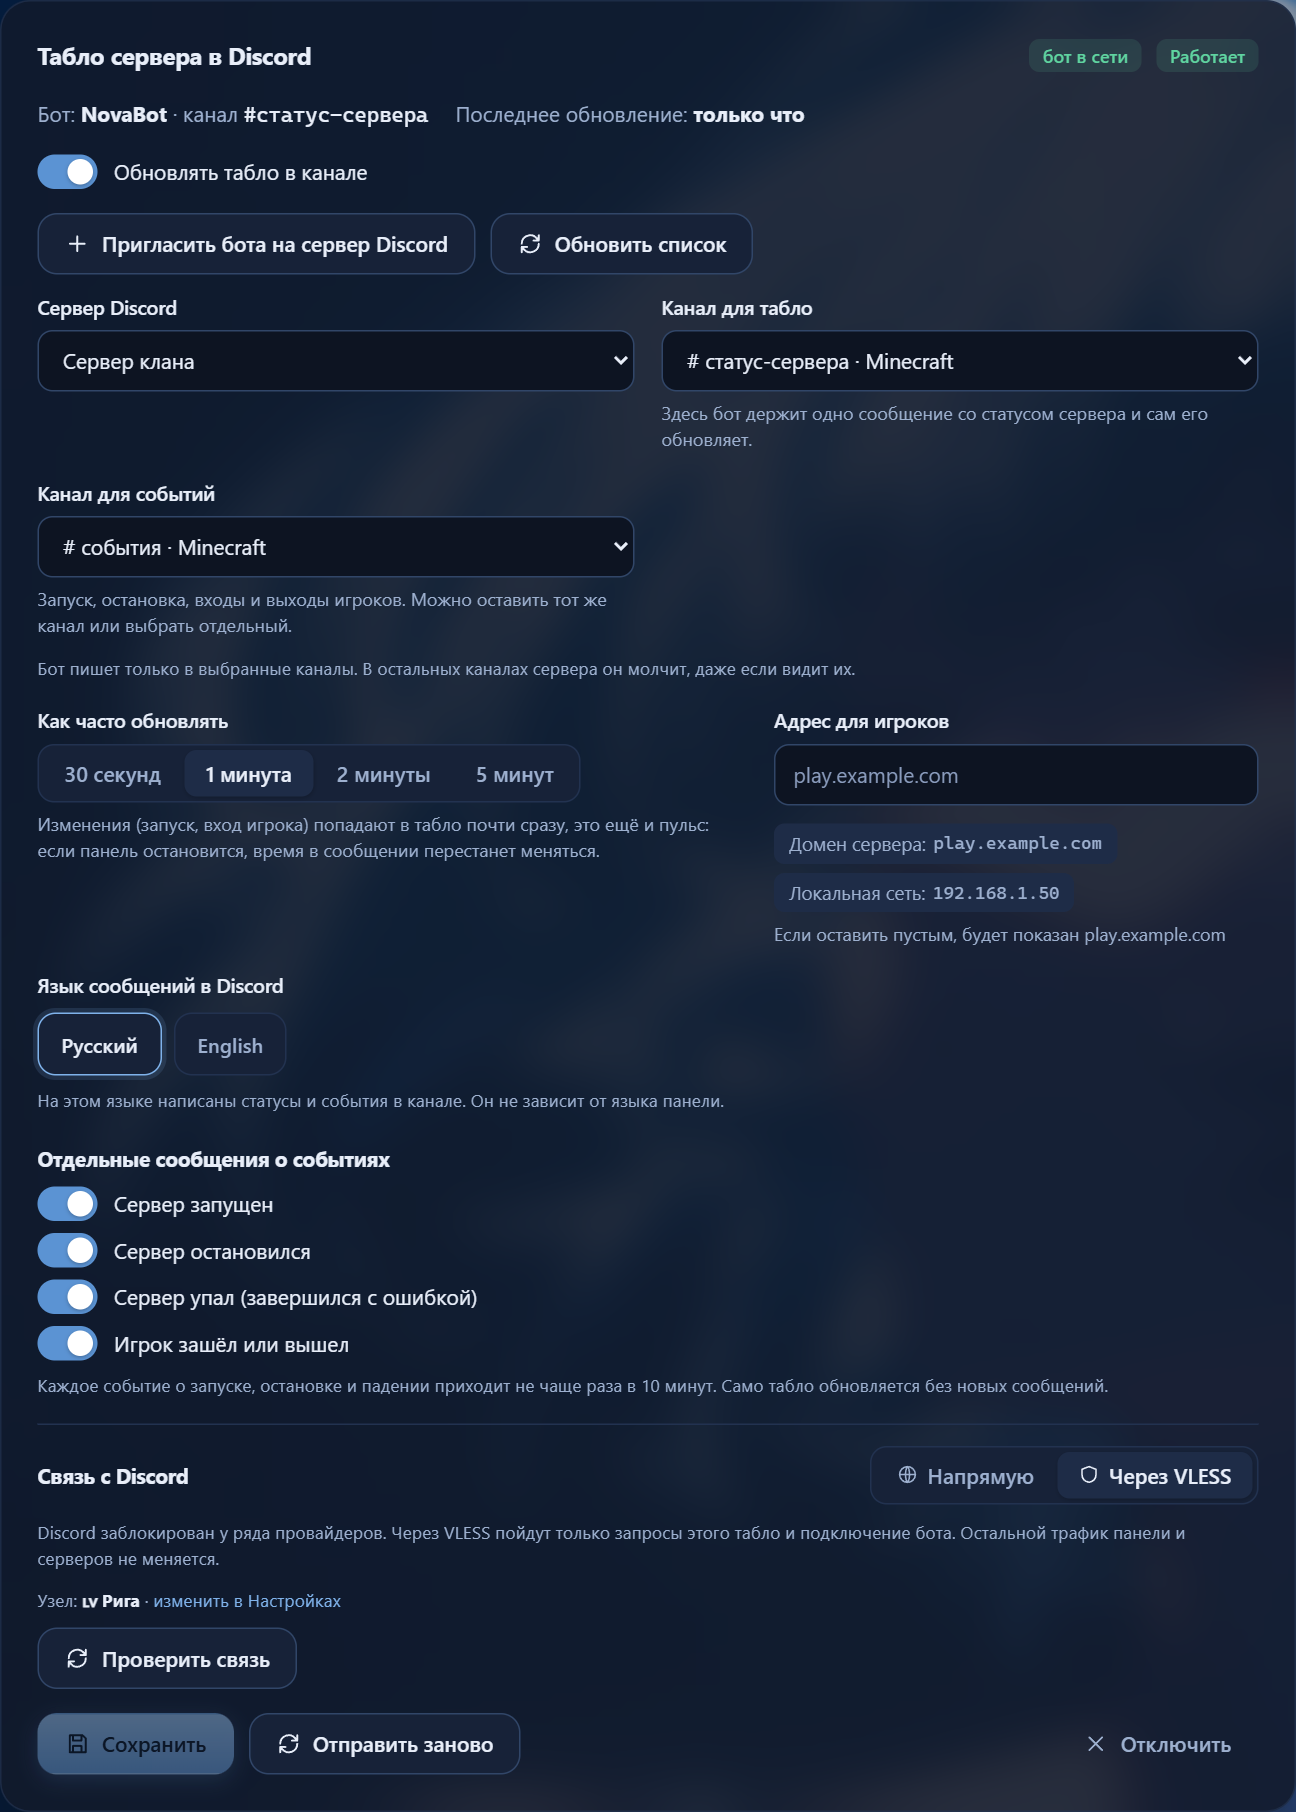
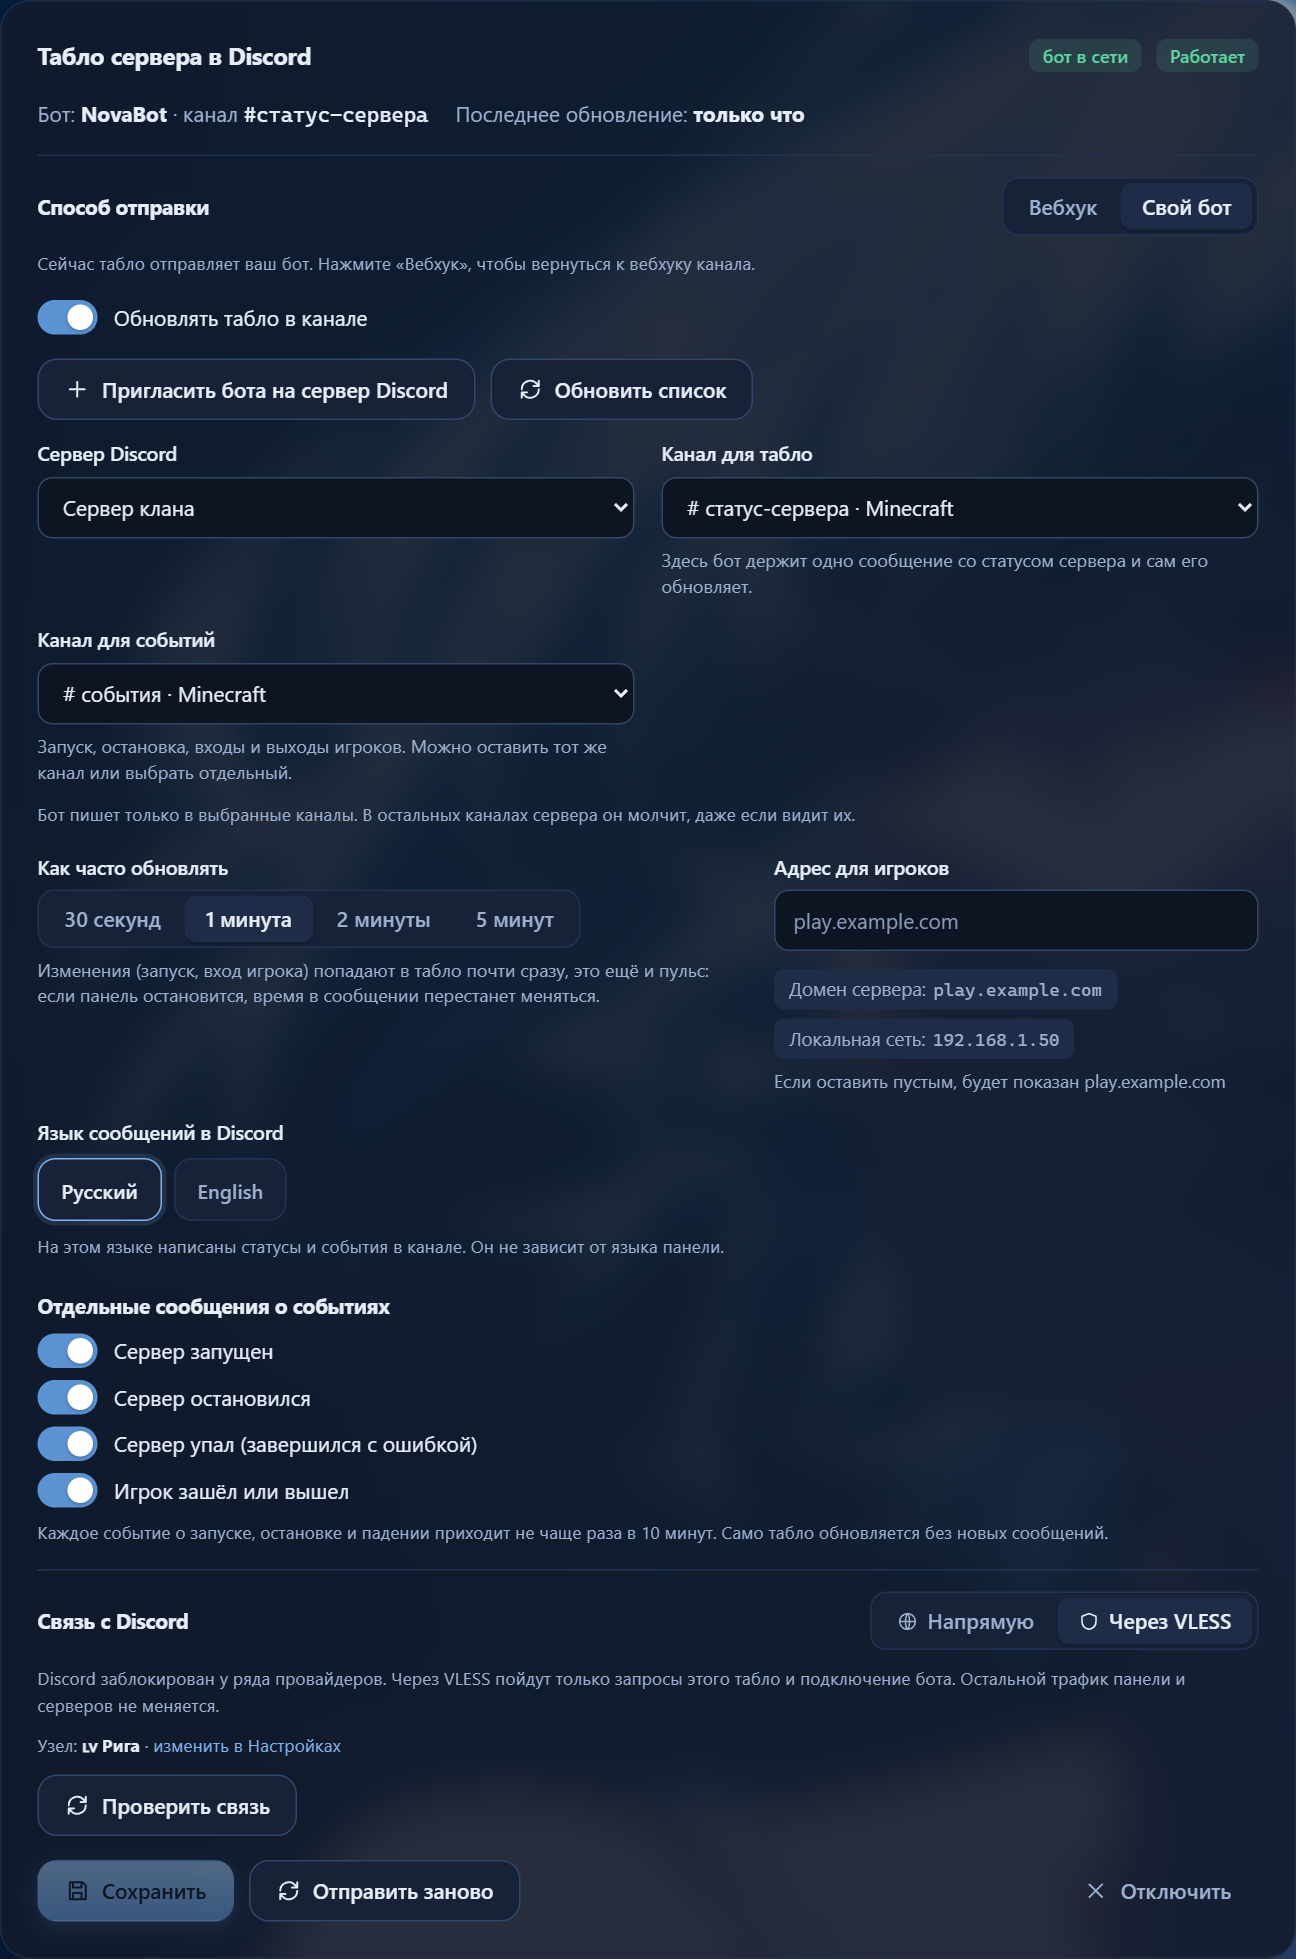
Discord: switch between webhook and own bot without disconnecting

diff --git a/public/discord.js b/public/discord.js
@@ -285,6 +285,44 @@ const norm = x => ({
   proxy: { on: !!x.proxy?.on, name: x.proxy?.name || '', available: x.proxy?.available ?? !!(x.proxyNodes || []).length },
 });
 
+/** Способ отправки на уже подключённом табло: вебхук или свой бот. Смена не требует отключать Discord. */
+function KindSwitch({ s, d, f, run }) {
+  const [open, setOpen] = useState(false);
+  const [token, setToken] = useState('');
+  const [url, setUrl] = useState('');
+  const bot = d.kind === 'bot';
+  const toBot = async () => {
+    if (!token.trim()) return toast('Вставьте токен бота', 'err');
+    const r = await run(() => api(`/servers/${s.id}/discord/bot`, { method: 'POST', body: { token: token.trim(), proxy: f.proxy, lang: f.lang } }), 'Бот подключён. Теперь выберите канал.');
+    if (r) { setToken(''); setOpen(false); }
+  };
+  const toHook = async () => {
+    if (!d.hook && !url.trim()) return toast('Вставьте адрес вебхука', 'err');
+    const r = await run(() => api(`/servers/${s.id}/discord`, { method: 'PUT', body: { kind: 'webhook', on: true, ...(url.trim() ? { url: url.trim() } : {}) } }), 'Табло снова отправляется через вебхук');
+    if (r) { setUrl(''); setOpen(false); }
+  };
+  return html`<div class="col" style="gap:10px;border-top:1px solid var(--line);padding-top:14px">
+    <div class="row wrap"><h3 class="grow" style="margin:0">Способ отправки</h3>
+      <div class="seg" style="width:fit-content;white-space:nowrap">${[['webhook', 'Вебхук'], ['bot', 'Свой бот']].map(([k, n]) => html`<button type="button" key=${k} class=${(open ? k !== d.kind : k === d.kind) ? 'on' : ''} onClick=${() => setOpen(k !== d.kind)}>${n}</button>`)}</div></div>
+    ${!open ? html`<small class="muted">${bot ? 'Сейчас табло отправляет ваш бот. Нажмите «Вебхук», чтобы вернуться к вебхуку канала.' : 'Сейчас табло отправляется через вебхук. Нажмите «Свой бот», чтобы панель подняла вашего бота: он будет в сети со статусом и будет писать только в выбранные каналы.'}</small>`
+      : !bot ? html`<div class="col" style="gap:12px">
+        <ol class="dc-steps">
+          <li>Откройте <a href="https://discord.com/developers/applications" target="_blank" rel="noopener noreferrer">Discord Developer Portal</a> и нажмите <b>New Application</b>.</li>
+          <li>В разделе <b>Bot</b> нажмите <b>Reset Token</b> и скопируйте токен.</li>
+          <li>Вставьте токен сюда. Дальше панель покажет ссылку-приглашение и список каналов.</li>
+        </ol>
+        <${Field} label="Токен бота" hint="Старое сообщение вебхука будет удалено, бот отправит новое табло в выбранный канал. Адрес вебхука сохранится, к нему можно вернуться.">
+          <div class="row"><input type="password" autocomplete="off" placeholder="MTIzNDU2Nzg5…" value=${token} onInput=${e => setToken(e.target.value)} onKeyDown=${e => e.key === 'Enter' && toBot()} />
+            <${Btn} kind="primary" icon="rocket" onClick=${toBot}>Подключить бота</${Btn}></div></${Field}>
+        <div><${Btn} kind="ghost" onClick=${() => setOpen(false)}>Отмена</${Btn}></div></div>`
+      : html`<div class="col" style="gap:12px">
+        <${Field} label="Адрес вебхука" hint=${d.hook ? 'Если оставить пустым, будет использован сохранённый вебхук. Бот перестанет писать и уйдёт из сети.' : 'Настройки канала → Интеграции → Вебхуки → Новый вебхук → Копировать URL вебхука.'}>
+          <div class="row"><input type="password" autocomplete="off" placeholder=${d.hook || 'https://discord.com/api/webhooks/…'} value=${url} onInput=${e => setUrl(e.target.value)} onKeyDown=${e => e.key === 'Enter' && toHook()} />
+            <${Btn} kind="primary" icon="msg" onClick=${toHook}>Перейти на вебхук</${Btn}></div></${Field}>
+        <div><${Btn} kind="ghost" onClick=${() => setOpen(false)}>Отмена</${Btn}></div></div>`}
+  </div>`;
+}
+
 const formOf = x => ({
   on: x.on, interval: x.interval, address: x.address, lang: x.lang, events: x.events, proxy: { on: x.proxy.on }, look: x.look,
   bot: { guildId: x.bot.guildId, guildName: x.bot.guildName, channelId: x.bot.channelId, eventsChannelId: x.bot.eventsChannelId, activity: x.bot.activity, online: x.bot.online },
@@ -389,6 +427,7 @@ export function DiscordTab({ s }) {
         <${ProxyBox} s=${s} d=${d} value=${f.proxy} onChange=${v => setF({ ...f, proxy: v })} />
         <div class="row wrap" style="gap:10px">
           <${Btn} kind="primary" icon="rocket" disabled=${busy || !f.bot.channelId} onClick=${() => put(body({ on: true }), 'Готово, бот отправил табло в канал')}>${busy ? 'Запуск…' : 'Запустить бота'}</${Btn}>
+          ${d.hook && html`<${Btn} kind="ghost" icon="back" disabled=${busy} onClick=${() => put({ kind: 'webhook', on: true }, 'Табло снова отправляется через вебхук')}>Вернуться к вебхуку</${Btn}>`}
           <span class="grow"></span>
           <${Btn} kind="danger ghost" icon="x" disabled=${busy} onClick=${drop}>Отключить</${Btn}></div>
       </div>
@@ -412,6 +451,7 @@ export function DiscordTab({ s }) {
           : html`<span class="muted">Вебхук: <span class="mono" style="color:var(--text)">${d.hook}</span></span>`}
         <span class="muted">Последнее обновление: <b style="color:var(--text)">${d.sentAt ? ago(d.sentAt) : 'ещё не было'}</b></span>
       </div>
+      <${KindSwitch} s=${s} d=${d} f=${f} run=${run} />
       <${Toggle} on=${f.on} onChange=${v => setF({ ...f, on: v })} label="Обновлять табло в канале" />
       ${bot && html`<${ChannelPicker} s=${s} d=${d} value=${f.bot} onChange=${v => setF({ ...f, bot: v })} />`}
       <div class="row wrap" style="gap:20px 28px;align-items:flex-start">

diff --git a/public/i18n/en-10.js b/public/i18n/en-10.js
@@ -76,6 +76,15 @@ export default {
   "Панель отправит в выбранный канал красивое сообщение со статусом сервера и сама будет его обновлять: онлайн или нет, сколько игроков и кто играет, версия, аптайм.": "The panel posts a neat server status message to the chosen channel and keeps it updated: online or not, how many players and who is playing, version, uptime.",
   "Самый простой способ: нужен только адрес вебхука канала. Имя и аватар отправителя настраиваются из панели.": "The simplest way: only the channel webhook address is needed. The sender name and avatar are set from the panel.",
   "Свой бот": "Your own bot",
+  "Способ отправки": "Sending method",
+  "Сейчас табло отправляет ваш бот. Нажмите «Вебхук», чтобы вернуться к вебхуку канала.": "Your bot posts the status board now. Click 'Webhook' to go back to the channel webhook.",
+  "Сейчас табло отправляется через вебхук. Нажмите «Свой бот», чтобы панель подняла вашего бота: он будет в сети со статусом и будет писать только в выбранные каналы.": "The status board is posted through a webhook now. Click 'Your own bot' to let the panel run your bot: it will be online with a status and write only to the chosen channels.",
+  "Старое сообщение вебхука будет удалено, бот отправит новое табло в выбранный канал. Адрес вебхука сохранится, к нему можно вернуться.": "The old webhook message will be deleted, and the bot will post a new status board to the chosen channel. The webhook address is kept, so you can go back to it.",
+  "Если оставить пустым, будет использован сохранённый вебхук. Бот перестанет писать и уйдёт из сети.": "If left empty, the saved webhook is used. The bot stops posting and goes offline.",
+  "Настройки канала → Интеграции → Вебхуки → Новый вебхук → Копировать URL вебхука.": "Channel settings → Integrations → Webhooks → New Webhook → Copy Webhook URL.",
+  "Перейти на вебхук": "Switch to the webhook",
+  "Вернуться к вебхуку": "Back to the webhook",
+  "Табло снова отправляется через вебхук": "The status board is posted through the webhook again",
   "Панель поднимает вашего бота: он в сети, показывает статус «Играет в …» и пишет только в выбранные каналы. Имя, аватар и описание меняются из панели.": "The panel runs your bot: it is online, shows a 'Playing …' status and writes only to the chosen channels. The name, avatar and description are changed from the panel.",
   "Откройте": "Open",
   "и нажмите": "and click",
